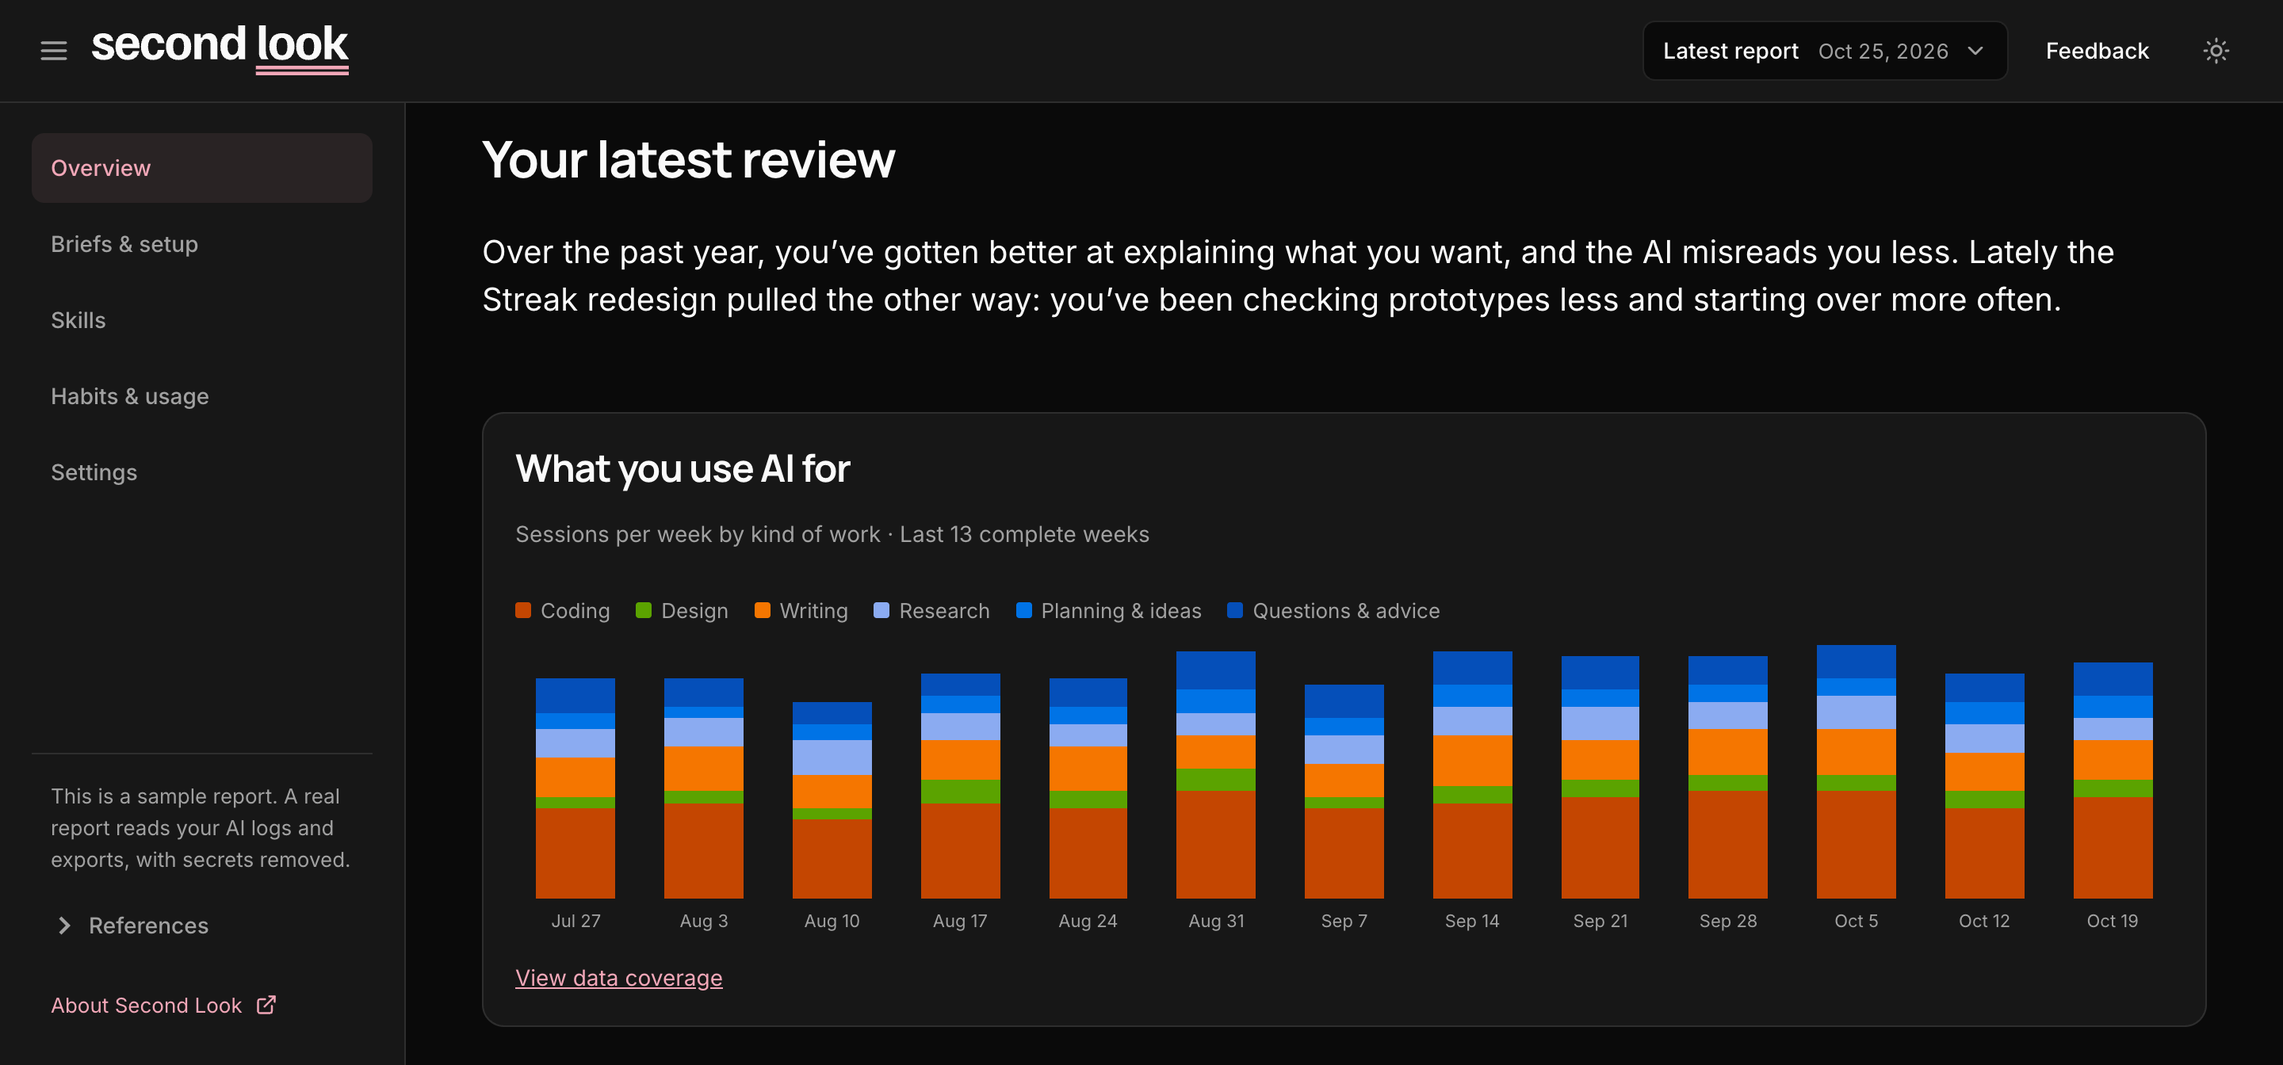
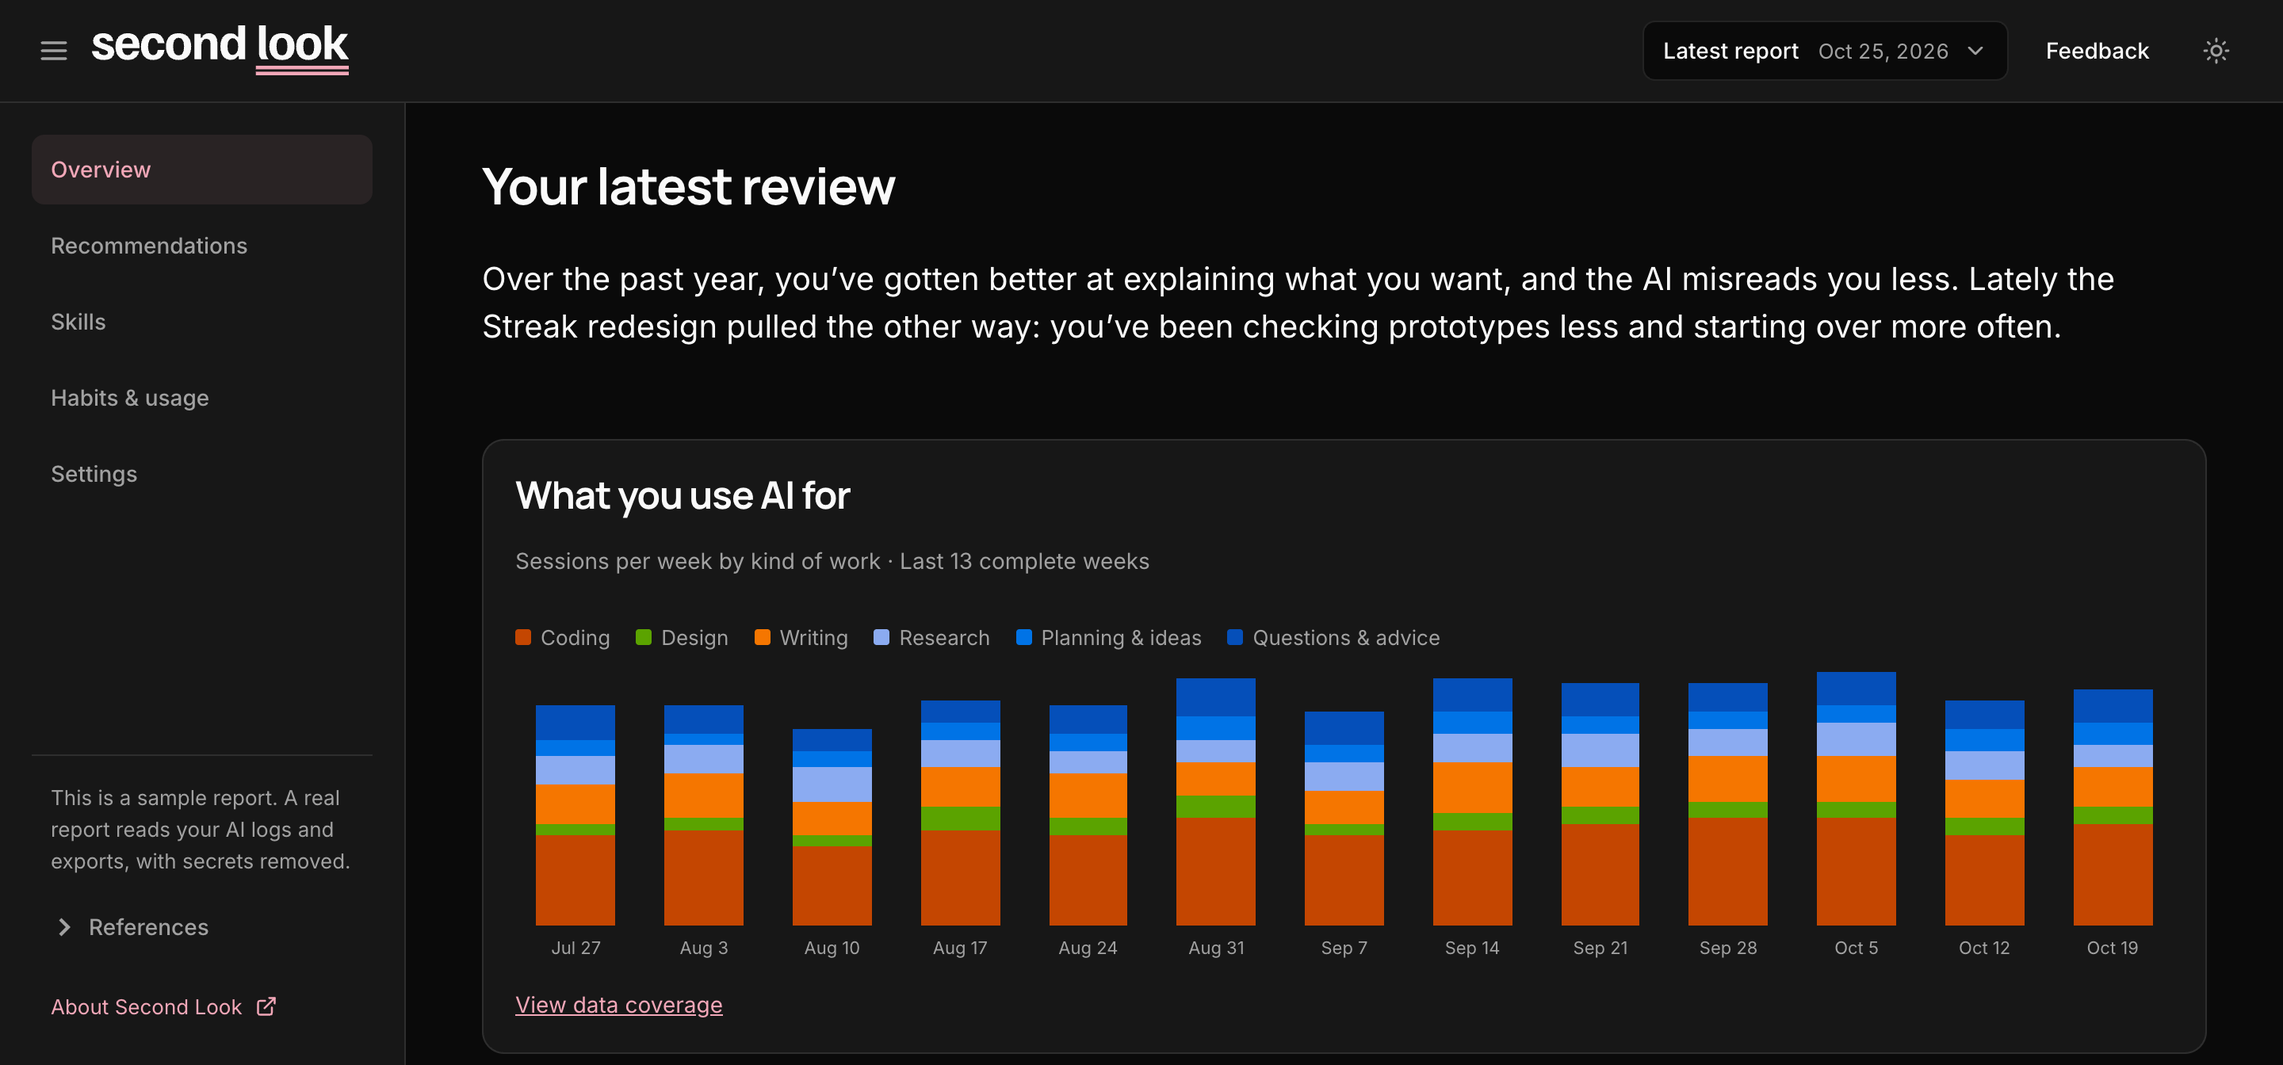
Rename the report section to Recommendations

diff --git a/plugins/second-look/skills/second-look/report-template.html b/plugins/second-look/skills/second-look/report-template.html
@@ -953,7 +953,7 @@ th > .term > .term-card::before { top: calc(-1.3em - 8px); height: calc(1.3em + 
 <aside class="side" id="side">
   <nav class="side-nav" aria-label="Report pages">
     <a href="#overview" data-page="overview">Overview</a>
-    <a href="#part-2" data-page="part-2">Briefs &amp; setup</a>
+    <a href="#part-2" data-page="part-2">Recommendations</a>
     <a href="#part-3" data-page="part-3">Skills</a>
     <div class="side-group">
       <a href="#part-1" data-page="part-1">Habits &amp; usage<svg class="side-chev" viewBox="0 0 24 24" width="16" height="16" fill="none" stroke="currentColor" stroke-width="2" stroke-linecap="round" stroke-linejoin="round" aria-hidden="true"><path d="m6 9 6 6 6-6"/></svg></a>
@@ -1019,17 +1019,17 @@ th > .term > .term-card::before { top: calc(-1.3em - 8px); height: calc(1.3em + 
   <section class="explore" aria-labelledby="explore-h">
     <h2 id="explore-h">Explore your report</h2>
     <div class="dests">
-      <a class="dest" href="#part-2"><span class="dest-text"><span class="dest-t">Briefs &amp; setup</span><span class="dest-d">Six recommendations, led by your rules, prototype starts and final checks, plus three more.</span></span><span class="dest-go">View recommendations<svg viewBox="0 0 24 24" width="16" height="16" fill="none" stroke="currentColor" stroke-width="2" stroke-linecap="round" stroke-linejoin="round" aria-hidden="true"><path d="M5 12h14M12 5l7 7-7 7"/></svg></span></a>
+      <a class="dest" href="#part-2"><span class="dest-text"><span class="dest-t">Recommendations</span><span class="dest-d">Six recommendations, led by your rules, prototype starts and final checks, plus three more.</span></span><span class="dest-go">View recommendations<svg viewBox="0 0 24 24" width="16" height="16" fill="none" stroke="currentColor" stroke-width="2" stroke-linecap="round" stroke-linejoin="round" aria-hidden="true"><path d="M5 12h14M12 5l7 7-7 7"/></svg></span></a>
       <a class="dest" href="#part-3"><span class="dest-text"><span class="dest-t">Skills</span><span class="dest-d">Three of your seven skills give wrong information today.</span></span><span class="dest-go">Review skills<svg viewBox="0 0 24 24" width="16" height="16" fill="none" stroke="currentColor" stroke-width="2" stroke-linecap="round" stroke-linejoin="round" aria-hidden="true"><path d="M5 12h14M12 5l7 7-7 7"/></svg></span></a>
       <a class="dest" href="#part-1"><span class="dest-text"><span class="dest-t">Habits &amp; usage</span><span class="dest-d">How you brief, check, refine and use your apps over time.</span></span><span class="dest-go">View trends<svg viewBox="0 0 24 24" width="16" height="16" fill="none" stroke="currentColor" stroke-width="2" stroke-linecap="round" stroke-linejoin="round" aria-hidden="true"><path d="M5 12h14M12 5l7 7-7 7"/></svg></span></a>
     </div>
   </section>
 </div>
 
-<!-- BRIEFS AND SETUP (#part-2) -->
+<!-- RECOMMENDATIONS (#part-2) -->
 <div class="part page" id="part-2" data-findings-state="available">
   <div class="part-head">
-    <h2>How you brief AI and set up your apps</h2>
+    <h2>Recommendations based on your AI sessions</h2>
     <p class="headline">Vague prototype starts take the most time. Syncing your rules is quickest, so it comes first. Six recommendations below.</p>
   </div>
 

diff --git a/src/components/Opportunities.tsx b/src/components/Opportunities.tsx
@@ -21,7 +21,7 @@ export function Opportunities() {
   return (
     <FeatureSection
       id="opportunities"
-      kicker="Briefs & setup"
+      kicker="Recommendations"
       title="Too much back-and-forth with AI?"
       description="You repeat the same instructions, clarify what you meant halfway through, or catch mistakes right before sharing. Second Look reviews your sessions for recurring patterns and suggests what to change in your briefs, saved instructions, or final checks."
     >

diff --git a/plugins/second-look/skills/second-look/scripts/check_report.py b/plugins/second-look/skills/second-look/scripts/check_report.py
@@ -13,7 +13,7 @@ REPORT_FONTS = ("Inter", "Manrope", "JetBrains Mono")
 REQUIRED_IDS = ["overview", "side", "part-1", "part-2", "part-3", "trends", "report-issue"]
 SECTION_ORDER = ["overview", "part-2", "part-3", "part-1"]
 REQUIRED_TEXT = [
-    "How you brief AI and set up your apps",
+    "Recommendations based on your AI sessions",
     "Keep your skills current",
     "How your habits are changing",
     "Report an issue",
@@ -274,10 +274,10 @@ def main():
     for t in REQUIRED_TEXT:
         if t not in html:
             problems.append(f'missing "{t}"')
-    # overview, then prompts, then skills, then habits last
+    # overview, then recommendations, then skills, then habits last
     order = [html.find(f'id="{i}"') for i in SECTION_ORDER]
     if -1 not in order and order != sorted(order):
-        problems.append("pages out of order: overview, briefs and setup, skills, then habits")
+        problems.append("pages out of order: overview, recommendations, skills, then habits")
     markup = re.sub(r"<style>.*?</style>", "", html, flags=re.S)
     for needle, why in FORBIDDEN.items():
         if needle in markup:

diff --git a/plugins/second-look/skills/second-look/SKILL.md b/plugins/second-look/skills/second-look/SKILL.md
@@ -424,7 +424,7 @@ Never set up a schedule, hook or skill during the review. Propose it with paste-
 they say yes first.
 
 A repeat that came back 4 or more times in the last 4 weeks and cost real time is also a
-P1 habit: give it a card in "How you brief AI and set up your apps" so its recommendation gets a recommendation panel.
+P1 habit: give it a card in "Recommendations based on your AI sessions" so its recommendation gets a recommendation panel.
 
 **Goals worth retrying on a new model.** Some work comes back as the same goal in different
 words: making a page load faster, cutting a prompt's cost, tightening a layout, raising a test
@@ -449,7 +449,7 @@ this: every review checks for it, so never propose a separate task that watches 
 
 ## 4. The report
 
-One HTML file with report pages (Overview, Briefs & setup, Skills, Habits & usage) and a Settings page, built from `report-template.html` and named "Second Look · <start> – <end>".
+One HTML file with report pages (Overview, Recommendations, Skills, Habits & usage) and a Settings page, built from `report-template.html` and named "Second Look · <start> – <end>".
 Lead with the answer, then the evidence.
 
 **One comparison window.** Every habit number that shows a change compares the last 4 weeks with
@@ -568,9 +568,9 @@ model, test, ship and skill, in a `p` or `dd`. See "Habit terms" in the design s
 
 **App bar and sidebar.** Set the review's date in `.report-date`. Locally, once the report is saved in `~/.second-look/reports/` as `<end-date>.html`, run `python3 scripts/report_menu.py <report.html>`. It fills the menu in every saved report, so they can all reach each other, and shows a plain label when there's only one. On claude.ai, replace everything between the `report-menu` comments with `<p class="report-pick"><span class="report-pick-t">Latest report</span> <span class="report-date">Oct 25<span class="report-year">, 2026</span></span></p>`, because an artifact has no folder of saved reports. Keep the Feedback link (`#report-issue`, https://github.com/txz8096/second-look/issues/new) and the light and dark switch (`#theme-btn`) as they are. Keep sidebar labels free of counts or badges. On desktop keep the sidebar pinned below the app bar and sized to the viewport, with its method, Guidance and references, and About links at the viewport bottom. Scroll long reference lists inside the sidebar, so the report never has to be scrolled to reach About. On phones it remains a viewport-height drawer with the same pinned footer.
 
-**Overview** (`#overview`). The `h1` stays "Your latest review". Then the summary, then “What you use AI for” (weekly session counts stacked by kind of work for the last 13 complete weeks, from the report cube, with its link to Data coverage in Settings), then "Following up on your last review" if there's an earlier review, then "Explore your report": keep its three rows and their links. Briefs & setup names the recommendations in a short sentence ("Five recommendations for your rules, prototype starts, final checks, long sessions and model choice."), with the real count in words; past five, name the three biggest and say how many more. Skills repeats the Skills page's headline. Habits & usage says what the charts cover and over how long.
+**Overview** (`#overview`). The `h1` stays "Your latest review". Then the summary, then “What you use AI for” (weekly session counts stacked by kind of work for the last 13 complete weeks, from the report cube, with its link to Data coverage in Settings), then "Following up on your last review" if there's an earlier review, then "Explore your report": keep its three rows and their links. Recommendations names the recommendations in a short sentence ("Five recommendations for your rules, prototype starts, final checks, long sessions and model choice."), with the real count in words; past five, name the three biggest and say how many more. Skills repeats the Skills page's headline. Habits & usage says what the charts cover and over how long.
 
-**How you brief AI and set up your apps** (`#part-2`). A headline with the biggest finding and how many recommendations
+**Recommendations based on your AI sessions** (`#part-2`). A headline with the biggest finding and how many recommendations
 follow. If a much quicker recommendation goes first, the headline says so. "Following up on your last review" (`#last-cycle`) sits on the Overview, only when an
 earlier review logged recommendations (delete it on a first review): one card per decision (`.last-group`), headed "Keep doing these" (Keep), "Try more" (Revise) or "You can stop these" (Drop), without heading icons. Delete a group with no recommendations, and let the rest fill the row. Each recommendation is a `details.last-fix`: its name, one short result with the number when there is one ("You used it more: 11% to 18%", "Too soon to tell, 2 weeks in", "Not tried yet. Now only for long prototypes"). Put what changed, with its window, in the fold. Name what a percentage measures and which apps it covers in the result or its expanded explanation. All recommendations start collapsed. The verdict cites the outcome the recommendation was meant to move, as well as whether they used it. Add a second only when something else more likely explains it, or the recommendation is younger than the window. Then one card per briefing, context, memory or repeat-work pattern,
 biggest first (time and usage saved). Number the cards from 1 in the `.rank` circle, and put any card without a recommendation last, so a card's number is its recommendation's number. Each card: a title that states the finding; the apps as
@@ -691,7 +691,7 @@ Say "usage", never "cost" or "spend": most people are on a plan, not paying per 
   reviews also compare with the last one. Never compare with other people or a fixed number.
 - **Show a usage finding only when** there is a change they can make, the next review can check
   it, and the thing involved is at least a tenth of their usage. Otherwise leave it out.
-- **Long sessions** (How you brief AI and set up your apps). Sessions past `long_line` (150k tokens,
+- **Long sessions** (Recommendations based on your AI sessions). Sessions past `long_line` (150k tokens,
   a line we chose); on the page, call them "very long sessions". Give the
   share of usage they took, how a message there compares with a typical message, and the
   biggest sessions. The recommendation: start fresh when a phase ends.
@@ -888,7 +888,7 @@ change findings or recommendations merely because a chart filter changes. Filter
 count and offers Clear filters. It does not imply missing coverage or no activity elsewhere.
 
 An updated export creates a new report snapshot. Recompute its review summary and activity
-chart from included evidence and retain the standard Briefs & setup, Skills, Habits & usage
+chart from included evidence and retain the standard Recommendations, Skills, Habits & usage
 Overview destinations. Omit the duplicate history-update confirmation card. Changed source
 coverage alone does not establish changed habits. Keep a supported current rate when a
 comparison is ineligible, without an Up/Down claim. Unsupported measures and absent fields

diff --git a/plugins/second-look/skills/second-look/references/design-system.md b/plugins/second-look/skills/second-look/references/design-system.md
@@ -68,9 +68,9 @@ fully rounded chips.
 An app bar, a sidebar and one page at a time, from the "Compact App Bar" designs (Nov 6, 2026). Scripts off, every page shows in turn and the links still work.
 
 1. App bar (64px, stays on screen): the sidebar toggle and logo on the left; the report menu (`#report-menu`, a `details` that works with scripts off) the Feedback link (`#report-issue`, to https://github.com/txz8096/second-look/issues/new) and the light and dark switch (`#theme-btn`, hidden with scripts off) on the right. The menu shows "Latest report" or "Earlier report" with this report's date, and opens a scrolling list of every saved report, newest first, with the latest marked. `scripts/report_menu.py` writes the list between the `report-menu` comments, using relative links, and switching reports stays on the same page. With one report, or on claude.ai, it's a plain label. Phones (680px and narrower) show only the month and day, so the bar fits. The sample report's earlier dates are plain text, since it has no other reports to open.
-2. Sidebar (`#side`, 256px; a drawer at 900px and narrower): Overview, Briefs & setup, Skills, Habits & usage, Settings, with no numerical counts or badges. While Habits & usage is open, its item turns plain (no pink) with a chevron pointing down and opens into the five questions (`#habit-questions`), indented under a left rule, 13px, 36px tall (44px on phones); the open question is pink on the soft pink fill. On other pages Habits & usage is a plain link. On desktop it stays pinned below the app bar and fills the available viewport height, with method, References, and About at the viewport bottom. Long references scroll inside the sidebar; About stays reachable without scrolling the report. On phones the drawer fills the available viewport height with the same footer. Short viewports allow the navigation and references to scroll within their own areas. Settings contains Review schedule and Data coverage. The latter holds the session history timeline and app-specific Add export or Replace export disclosures. Overview and Habits & usage link to the timeline. When opened through these links, an arrow-only back link to the left of Data coverage restores the originating page, scroll position and link focus without resetting filters. Give the arrow an accessible name, “Back to previous view”. Hide the back link when Settings is opened directly. The sample controls update the preview summary. Generated reports direct users to the app that owns the schedule. At the bottom, on every page, a note (`#side-about`) always shows the method, and a folded "References" list sits under it, each item a link to its original source that opens in a new tab, in the note's muted color with an underline. The template's note also says it's a sample report. Both print after the report.
+2. Sidebar (`#side`, 256px; a drawer at 900px and narrower): Overview, Recommendations, Skills, Habits & usage, Settings, with no numerical counts or badges. While Habits & usage is open, its item turns plain (no pink) with a chevron pointing down and opens into the five questions (`#habit-questions`), indented under a left rule, 13px, 36px tall (44px on phones); the open question is pink on the soft pink fill. On other pages Habits & usage is a plain link. On desktop it stays pinned below the app bar and fills the available viewport height, with method, References, and About at the viewport bottom. Long references scroll inside the sidebar; About stays reachable without scrolling the report. On phones the drawer fills the available viewport height with the same footer. Short viewports allow the navigation and references to scroll within their own areas. Settings contains Review schedule and Data coverage. The latter holds the session history timeline and app-specific Add export or Replace export disclosures. Overview and Habits & usage link to the timeline. When opened through these links, an arrow-only back link to the left of Data coverage restores the originating page, scroll position and link focus without resetting filters. Give the arrow an accessible name, “Back to previous view”. Hide the back link when Settings is opened directly. The sample controls update the preview summary. Generated reports direct users to the app that owns the schedule. At the bottom, on every page, a note (`#side-about`) always shows the method, and a folded "References" list sits under it, each item a link to its original source that opens in a new tab, in the note's muted color with an underline. The template's note also says it's a sample report. Both print after the report.
 3. Overview (`#overview`): "Your latest review" as the `h1`, the summary paragraph (20px, plain words, no numbers), “What you use AI for” (weekly session counts stacked by kind of work for the last 13 complete weeks, from the report cube, with a link to Data coverage in Settings; under 600px the 13 bars fit the card and every third week keeps its date, ending on the latest), "Following up on your last review" (`#last-cycle`, one card per decision, one folded row per recommendation; only after a review with logged recommendations), then "Explore your report", one row per page.
-4. How you brief AI and set up your apps (`#part-2`): headline, then pattern cards
+4. Recommendations based on your AI sessions (`#part-2`): headline, then pattern cards
    (`article.icard`), each ending in its recommendation panel with Approve and Decline.
 5. Keep your skills current (`#part-3`): headline, scan line, "Skills to fix" (`#fix-first`, with paste-to-your-AI blocks in `.fix-block`), "Worth a look",
    collapsed "Skills you wrote", collapsed installed skills.

diff --git a/qa-checks.md b/qa-checks.md
@@ -6,7 +6,7 @@
 - [ ] `#try-rules .try-saves` says "Saves retyping and waiting for extra replies" and explains that total time saved isn't measured.
 - [ ] `#plan .plan-saves` for `#try-rules` says "Retyping and waiting for extra replies"; the report contains no "5 minutes a week" or "under a minute each" savings claim.
 - [ ] At 1440, 1280, 720, 375 and 320px in dark and light, the savings line, explanation and plan row wrap inside their containers; the Copy control and plan-to-recommendation navigation still work.
-- [ ] On production, follow the landing page's report link, open Briefs & setup, and check both savings locations and the explanation. Served HTML matches the committed template; no uncaught browser errors occur.
+- [ ] On production, follow the landing page's report link, open Recommendations, and check both savings locations and the explanation. Served HTML matches the committed template; no uncaught browser errors occur.
 
 ## 2026-11-13 — App and Project filters
 
